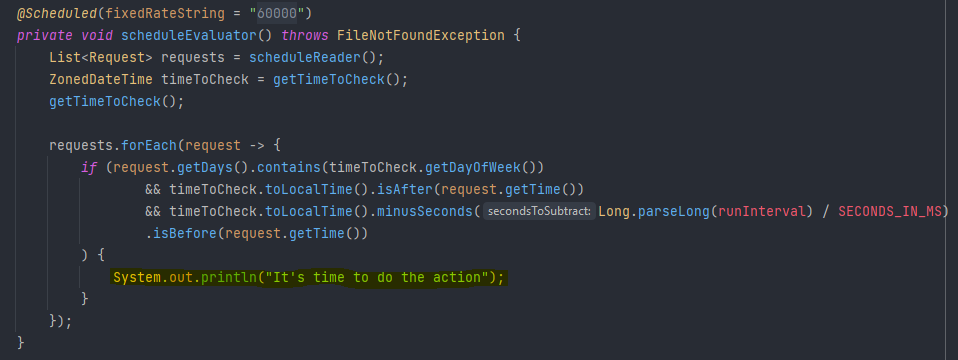
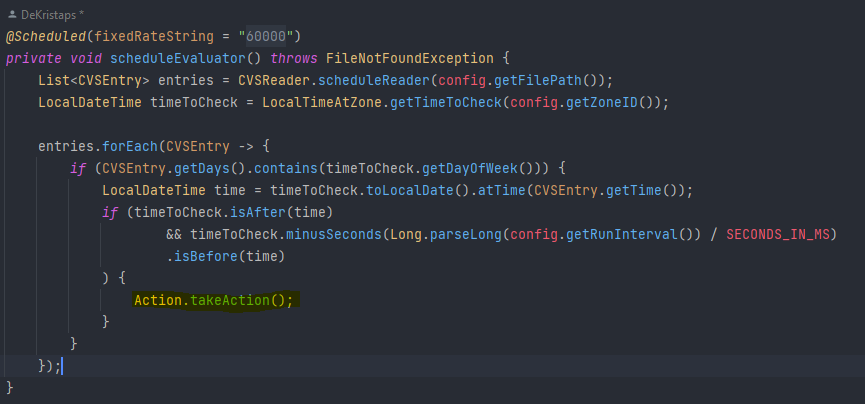
Changed file structure, Segregated methodes. Added test for CVSReader

diff --git a/src/main/java/dev/kristaps/actionscheduler/ActionService.java b/src/main/java/dev/kristaps/actionscheduler/ActionService.java
@@ -1,68 +1,40 @@
 package dev.kristaps.actionscheduler;
 
-import dev.kristaps.actionscheduler.dto.Request;
-import dev.kristaps.actionscheduler.util.DayParser;
-import org.springframework.beans.factory.annotation.Value;
+import dev.kristaps.actionscheduler.config.ActionSchedulerConfig;
+import dev.kristaps.actionscheduler.dto.CVSEntry;
+import dev.kristaps.actionscheduler.util.CVSReader;
+import dev.kristaps.actionscheduler.util.LocalTimeAtZone;
 import org.springframework.scheduling.annotation.Scheduled;
 import org.springframework.stereotype.Service;
 
-import java.io.File;
 import java.io.FileNotFoundException;
-import java.time.Instant;
-import java.time.LocalTime;
-import java.time.ZoneId;
-import java.time.ZonedDateTime;
-import java.util.ArrayList;
+import java.time.LocalDateTime;
 import java.util.List;
-import java.util.Scanner;
 
 @Service
 public class ActionService {
     private final Long SECONDS_IN_MS = 1000L;
-    @Value("${actionScheduler.timeZoneOffset}")
-    private String timeZoneOffset;
-    @Value("${actionScheduler.filePath}")
-    private String path;
-    @Value("${actionScheduler.runInterval}")
-    private String runInterval;
+    private final ActionSchedulerConfig config;
 
-    @Scheduled(fixedRateString = "${actionScheduler.runInterval}")
+    public ActionService(ActionSchedulerConfig config) {
+        this.config = config;
+    }
+
+    @Scheduled(fixedRateString = "${action-scheduler.runInterval}")
     private void scheduleEvaluator() throws FileNotFoundException {
-        List<Request> requests = scheduleReader();
-        ZonedDateTime timeToCheck = getTimeToCheck();
-        getTimeToCheck();
+        List<CVSEntry> entries = CVSReader.scheduleReader(config.getFilePath());
+        LocalDateTime timeToCheck = LocalTimeAtZone.getTimeToCheck(config.getZoneID());
 
-        requests.forEach(request -> {
-            if (request.getDays().contains(timeToCheck.getDayOfWeek())
-                    && timeToCheck.toLocalTime().isAfter(request.getTime())
-                    && timeToCheck.toLocalTime().minusSeconds(Long.parseLong(runInterval) / SECONDS_IN_MS)
-                    .isBefore(request.getTime())
-            ) {
-                System.out.println("It's time to do the action");
+        entries.forEach(CVSEntry -> {
+            if (CVSEntry.getDays().contains(timeToCheck.getDayOfWeek())) {
+                LocalDateTime time = timeToCheck.toLocalDate().atTime(CVSEntry.getTime());
+                if (timeToCheck.isAfter(time)
+                        && timeToCheck.minusSeconds(Long.parseLong(config.getRunInterval()) / SECONDS_IN_MS)
+                        .isBefore(time)
+                ) {
+                    Action.takeAction();
+                }
             }
         });
     }
-
-    private List<Request> scheduleReader() throws FileNotFoundException {
-        List<Request> requests = new ArrayList<>();
-        DayParser dayParser = new DayParser();
-
-        try {
-            Scanner sc = new Scanner(new File(path));
-            while (sc.hasNext()) {
-                String[] timeAndDays = sc.next().split(",");
-                Request request = new Request(LocalTime.parse(timeAndDays[0]), dayParser.parseDays(timeAndDays[1]));
-                requests.add(request);
-            }
-            sc.close();
-        } catch (FileNotFoundException e) {
-            throw new FileNotFoundException("File not found!");
-        }
-        return requests;
-    }
-
-    public ZonedDateTime getTimeToCheck() {
-        return ZonedDateTime.ofInstant(Instant.now(), ZoneId.of(timeZoneOffset));
-    }
-
 }

diff --git a/src/main/java/dev/kristaps/actionscheduler/dto/CVSEntry.java b/src/main/java/dev/kristaps/actionscheduler/dto/CVSEntry.java
@@ -5,11 +5,11 @@ import java.time.LocalTime;
 import java.util.List;
 import java.util.Objects;
 
-public class Request {
+public class CVSEntry {
     LocalTime time;
     List<DayOfWeek> days;
 
-    public Request(LocalTime time, List<DayOfWeek> days) {
+    public CVSEntry(LocalTime time, List<DayOfWeek> days) {
         this.time = time;
         this.days = days;
     }
@@ -34,8 +34,8 @@ public class Request {
     public boolean equals(Object o) {
         if (this == o) return true;
         if (o == null || getClass() != o.getClass()) return false;
-        Request request = (Request) o;
-        return time.equals(request.time) && days.equals(request.days);
+        CVSEntry CVSEntry = (CVSEntry) o;
+        return time.equals(CVSEntry.time) && days.equals(CVSEntry.days);
     }
 
     @Override
@@ -45,7 +45,7 @@ public class Request {
 
     @Override
     public String toString() {
-        return "Request{" +
+        return "CVSEntry{" +
                 "time=" + time +
                 ", days=" + days +
                 '}';

diff --git a/src/test/java/dev/kristaps/actionscheduler/util/CVSReaderTest.java b/src/test/java/dev/kristaps/actionscheduler/util/CVSReaderTest.java
@@ -1,0 +1,30 @@
+package dev.kristaps.actionscheduler.util;
+
+import dev.kristaps.actionscheduler.dto.CVSEntry;
+import org.junit.jupiter.api.Assertions;
+import org.junit.jupiter.api.Test;
+
+import java.io.FileNotFoundException;
+import java.time.DayOfWeek;
+import java.time.LocalTime;
+import java.util.List;
+
+class CVSReaderTest {
+
+    @Test
+    void scheduleReaderCanReadFile() throws FileNotFoundException {
+        String path = "src/test/java/dev/kristaps/actionscheduler/resources/test.csv";
+        List<CVSEntry> expected = List.of(new CVSEntry(LocalTime.parse("12:00"), List.of(DayOfWeek.MONDAY)));
+
+        List<CVSEntry> actual = CVSReader.scheduleReader(path);
+
+        Assertions.assertEquals(expected, actual);
+    }
+
+    @Test
+    void scheduleReaderThrowsFileNotFound() {
+        String path = "src/test/java/dev/kristaps/actionscheduler/resources/nonexixtant.cvs";
+
+        Assertions.assertThrows(FileNotFoundException.class, () -> CVSReader.scheduleReader(path));
+    }
+}

diff --git a/src/main/java/dev/kristaps/actionscheduler/config/ActionSchedulerConfig.java b/src/main/java/dev/kristaps/actionscheduler/config/ActionSchedulerConfig.java
@@ -1,0 +1,39 @@
+package dev.kristaps.actionscheduler.config;
+
+import org.springframework.boot.context.properties.ConfigurationProperties;
+import org.springframework.context.annotation.Configuration;
+
+
+
+@Configuration
+@ConfigurationProperties(prefix = "action-scheduler")
+public class ActionSchedulerConfig {
+
+    private String runInterval;
+    private String filePath;
+    private String zoneID;
+
+    public String getRunInterval() {
+        return runInterval;
+    }
+
+    public void setRunInterval(String runInterval) {
+        this.runInterval = runInterval;
+    }
+
+    public String getFilePath() {
+        return filePath;
+    }
+
+    public void setFilePath(String filePath) {
+        this.filePath = filePath;
+    }
+
+    public String getZoneID() {
+        return zoneID;
+    }
+
+    public void setZoneID(String zoneID) {
+        this.zoneID = zoneID;
+    }
+}

diff --git a/src/main/java/dev/kristaps/actionscheduler/util/CVSReader.java b/src/main/java/dev/kristaps/actionscheduler/util/CVSReader.java
@@ -1,0 +1,26 @@
+package dev.kristaps.actionscheduler.util;
+
+import dev.kristaps.actionscheduler.dto.CVSEntry;
+
+import java.io.File;
+import java.io.FileNotFoundException;
+import java.time.LocalTime;
+import java.util.ArrayList;
+import java.util.List;
+import java.util.Scanner;
+
+public class CVSReader {
+
+    public static List<CVSEntry> scheduleReader(String path) throws FileNotFoundException {
+        List<CVSEntry> entries = new ArrayList<>();
+        Scanner sc = new Scanner(new File(path));
+
+        while (sc.hasNext()) {
+            String[] timeAndDays = sc.next().split(",");
+            CVSEntry CVSEntry = new CVSEntry(LocalTime.parse(timeAndDays[0]), DayParser.parseDays(timeAndDays[1]));
+            entries.add(CVSEntry);
+        }
+        sc.close();
+        return entries;
+    }
+}

diff --git a/src/main/java/dev/kristaps/actionscheduler/util/DayParser.java b/src/main/java/dev/kristaps/actionscheduler/util/DayParser.java
@@ -1,16 +1,12 @@
 package dev.kristaps.actionscheduler.util;
 
-import org.springframework.stereotype.Component;
-
 import java.time.DayOfWeek;
 import java.util.ArrayList;
 import java.util.List;
 
-@Component
 public class DayParser {
-    public DayParser() {
-    }
-    public List<DayOfWeek> parseDays(String days) {
+
+    public static List<DayOfWeek> parseDays(String days) {
         List<DayOfWeek> dayList = new ArrayList<>();
         String binaryDays = Integer.toBinaryString(Integer.parseInt(days));
         int day = 1;

diff --git a/src/test/java/dev/kristaps/actionscheduler/util/DayParserTest.java b/src/test/java/dev/kristaps/actionscheduler/util/DayParserTest.java
@@ -12,9 +12,8 @@ class DayParserTest {
     void parseDaysTest() {
         List<DayOfWeek> expectedDays = List.of(DayOfWeek.MONDAY);
         String input = "1";
-        DayParser dayParser = new DayParser();
 
-        List<DayOfWeek> actual = dayParser.parseDays(input);
+        List<DayOfWeek> actual = DayParser.parseDays(input);
 
         Assertions.assertEquals(expectedDays, actual);
     }

diff --git a/src/main/java/dev/kristaps/actionscheduler/util/LocalTimeAtZone.java b/src/main/java/dev/kristaps/actionscheduler/util/LocalTimeAtZone.java
@@ -1,0 +1,11 @@
+package dev.kristaps.actionscheduler.util;
+
+import java.time.LocalDateTime;
+import java.time.ZoneId;
+
+public class LocalTimeAtZone {
+
+    public static LocalDateTime getTimeToCheck(String zoneID) {
+        return LocalDateTime.now(ZoneId.of(zoneID));
+    }
+}

diff --git a/src/main/java/dev/kristaps/actionscheduler/Action.java b/src/main/java/dev/kristaps/actionscheduler/Action.java
@@ -1,0 +1,8 @@
+package dev.kristaps.actionscheduler;
+
+public class Action {
+
+    public static void takeAction() {
+        System.out.println("Its time to do something");
+    }
+}

diff --git a/ReadMe.md b/ReadMe.md
@@ -4,7 +4,7 @@ This is an Action scheduler that runs in a configurable interval, and can read a
 
 The program can be configured with:
 
-* Zone offset for checking times in different countries.
+* Zone ID for checking times in different countries.
 * A run interval in ms (after which the program opens the file again and checks the days and times listed).
 Any file location.
 * The program can be configured in the application.properties file.
@@ -13,9 +13,7 @@ After hitting run the program executes immediately and then only after the speci
 
 To run the program you must first set the file path in the application.properties file.
 
-At the moment the program will only print - "It's time to do the action" when time and days match the CSV,
-but it can be modified to make any method call. 
-
-To do this, changes need to be made in the highlighted area. 
+At the moment program calls the Action class with a void methode that prints - "It's time to do something" 
+This can be changed here -> 
 
 <img src="ReadMePic/Screen.PNG">
